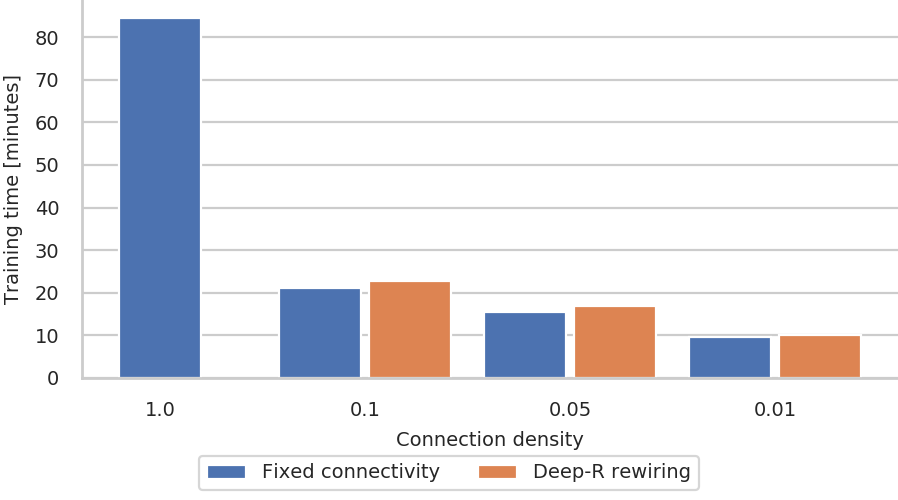
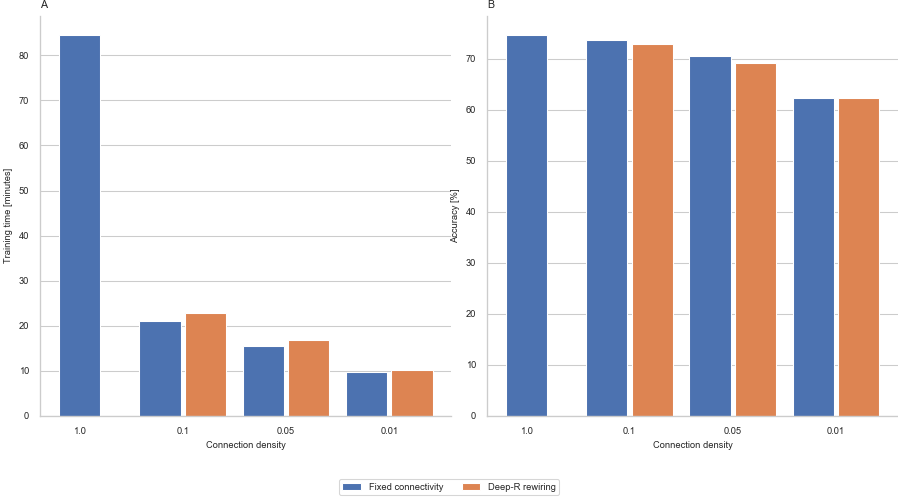
updated performance

diff --git a/scripts/plot_shd_deep_r.py b/scripts/plot_shd_deep_r.py
@@ -8,7 +8,7 @@ density = np.asarray([1.0, 0.1, 0.05, 0.01])
 train_time = np.asarray([5072069.393037, 1266687.215274, 926892.090231, 580000.520527])
 train_time_deep_r = np.asarray([None, 1365169.228164, 1010249.199616, 603524.890482])
 test_performance = np.asarray([74.690813, 73.674912, 70.538869, 62.279152])
-test_performance_deep_r = np.asarray([None, 70.980565, 71.378092, 61.793286])
+test_performance_deep_r = np.asarray([None, 72.924028, 69.169611, 62.279152])
 
 # Plot training time bars
 time_bar_width = 0.4
